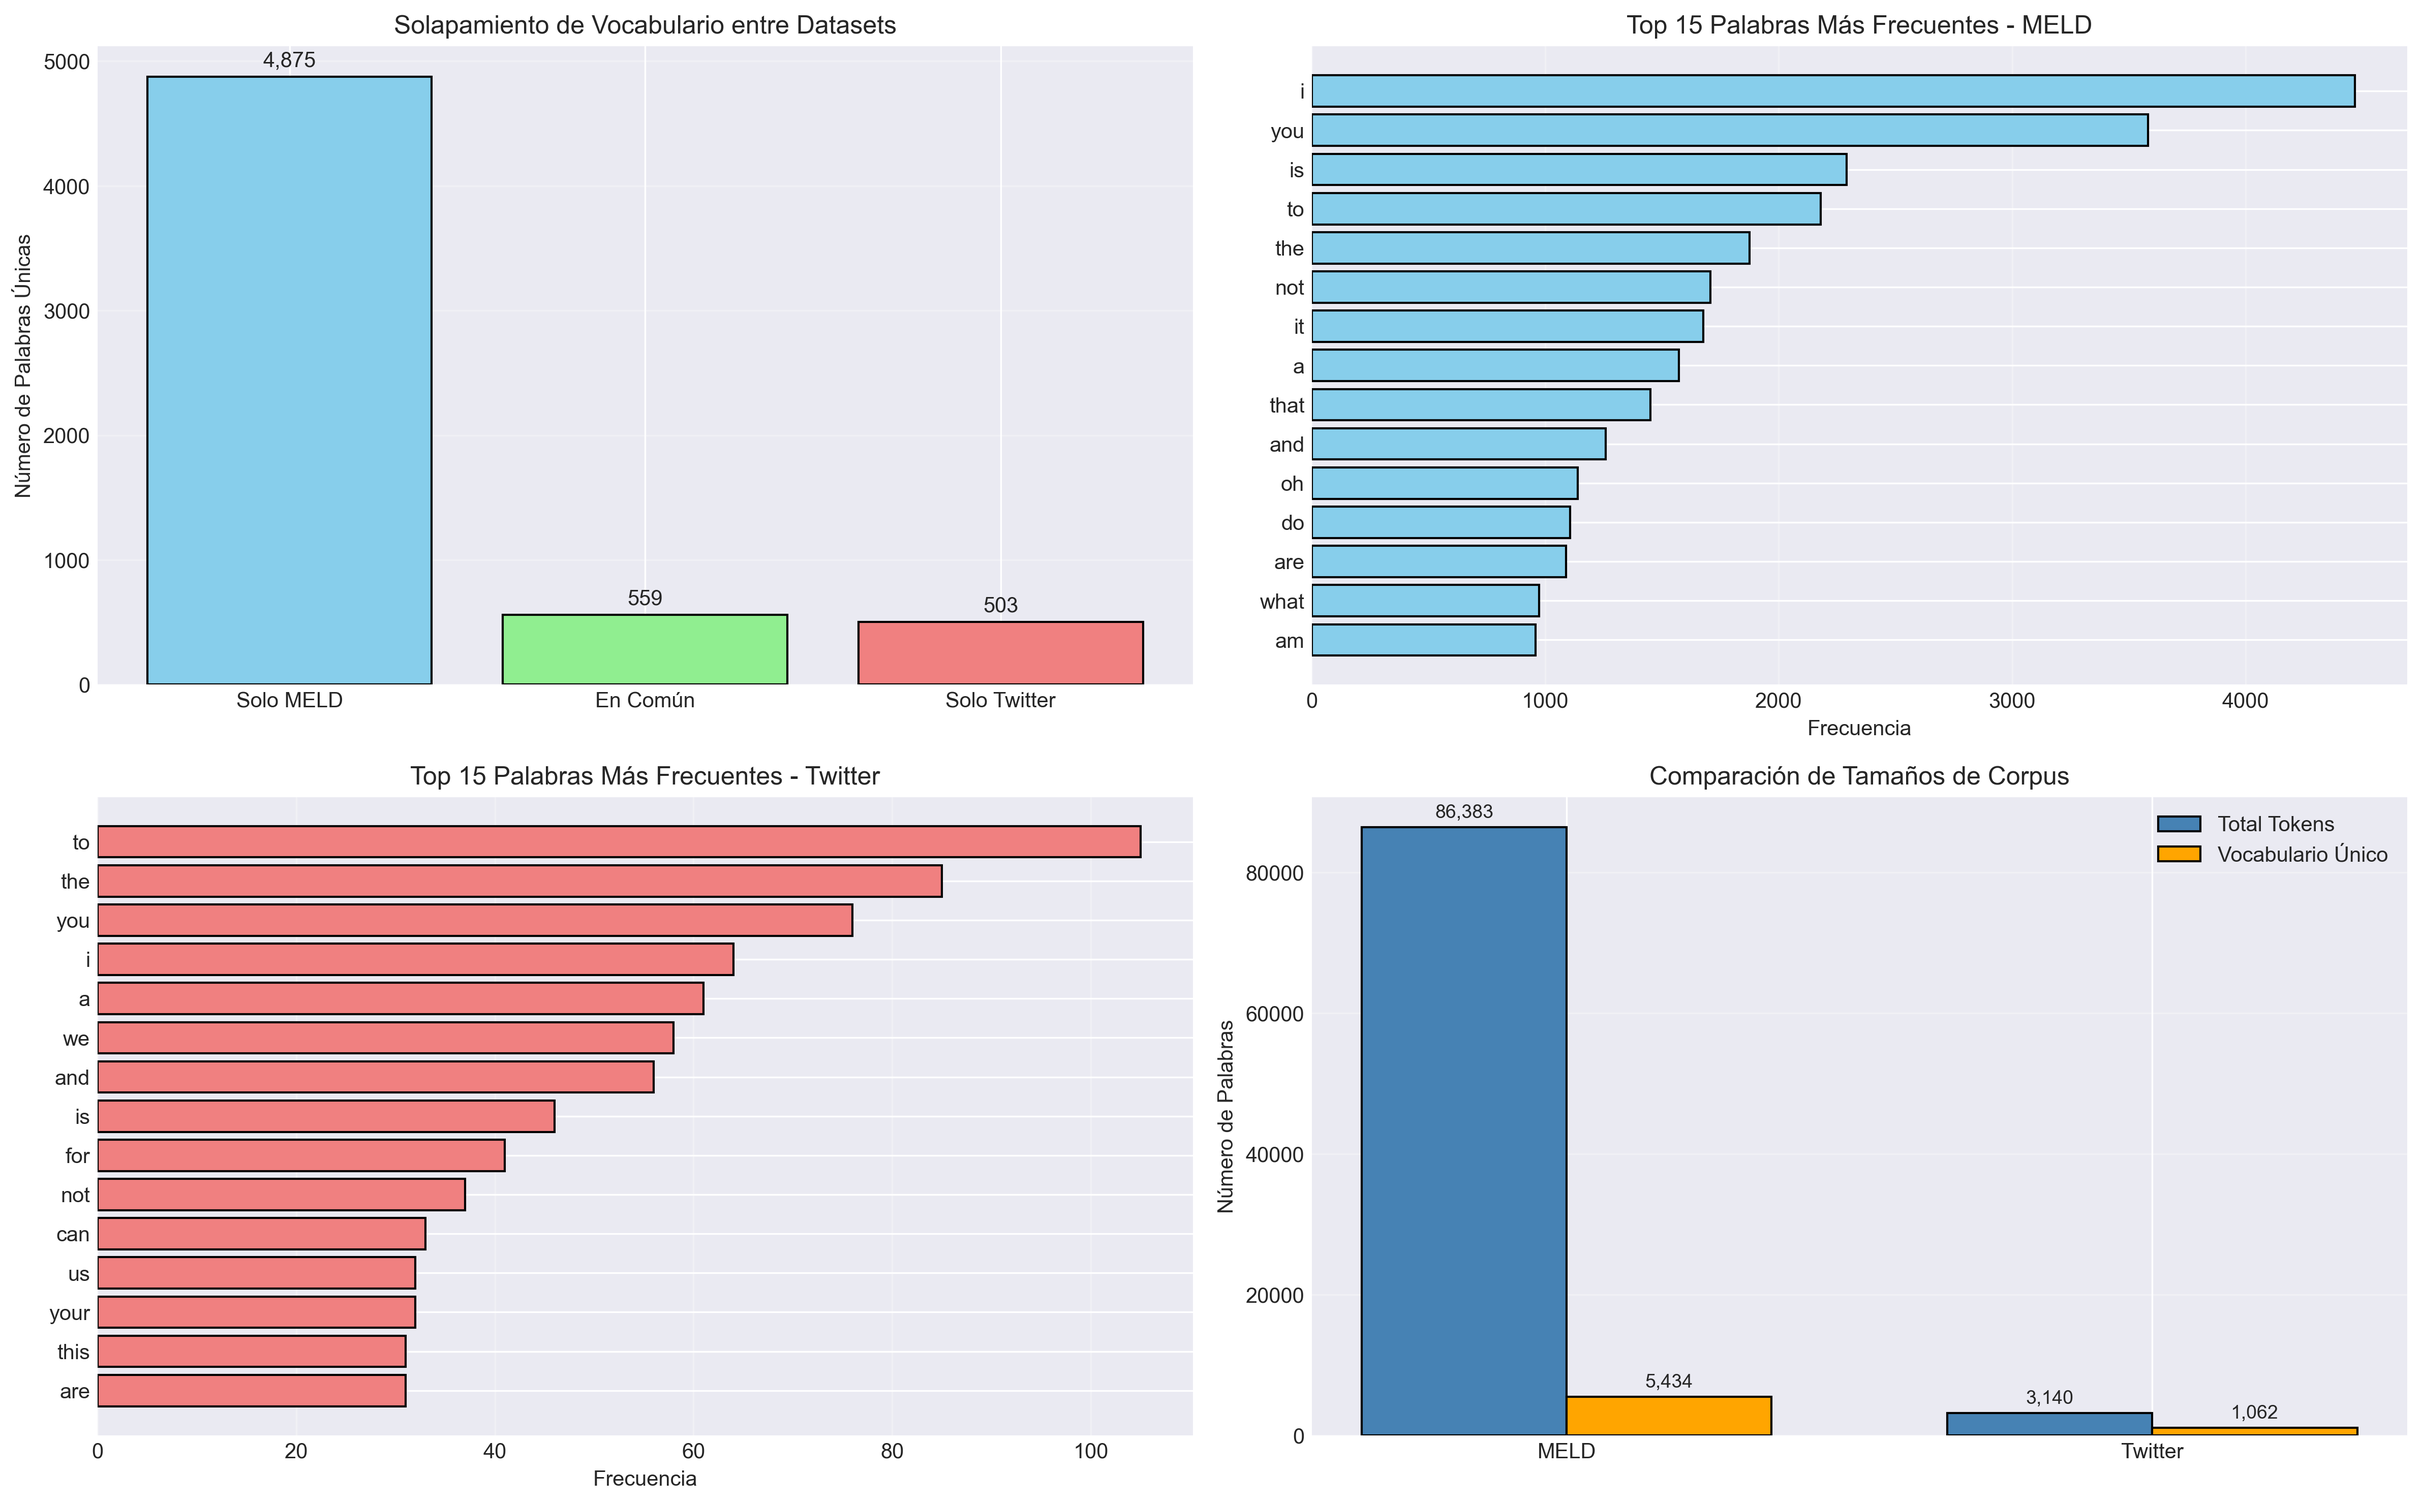
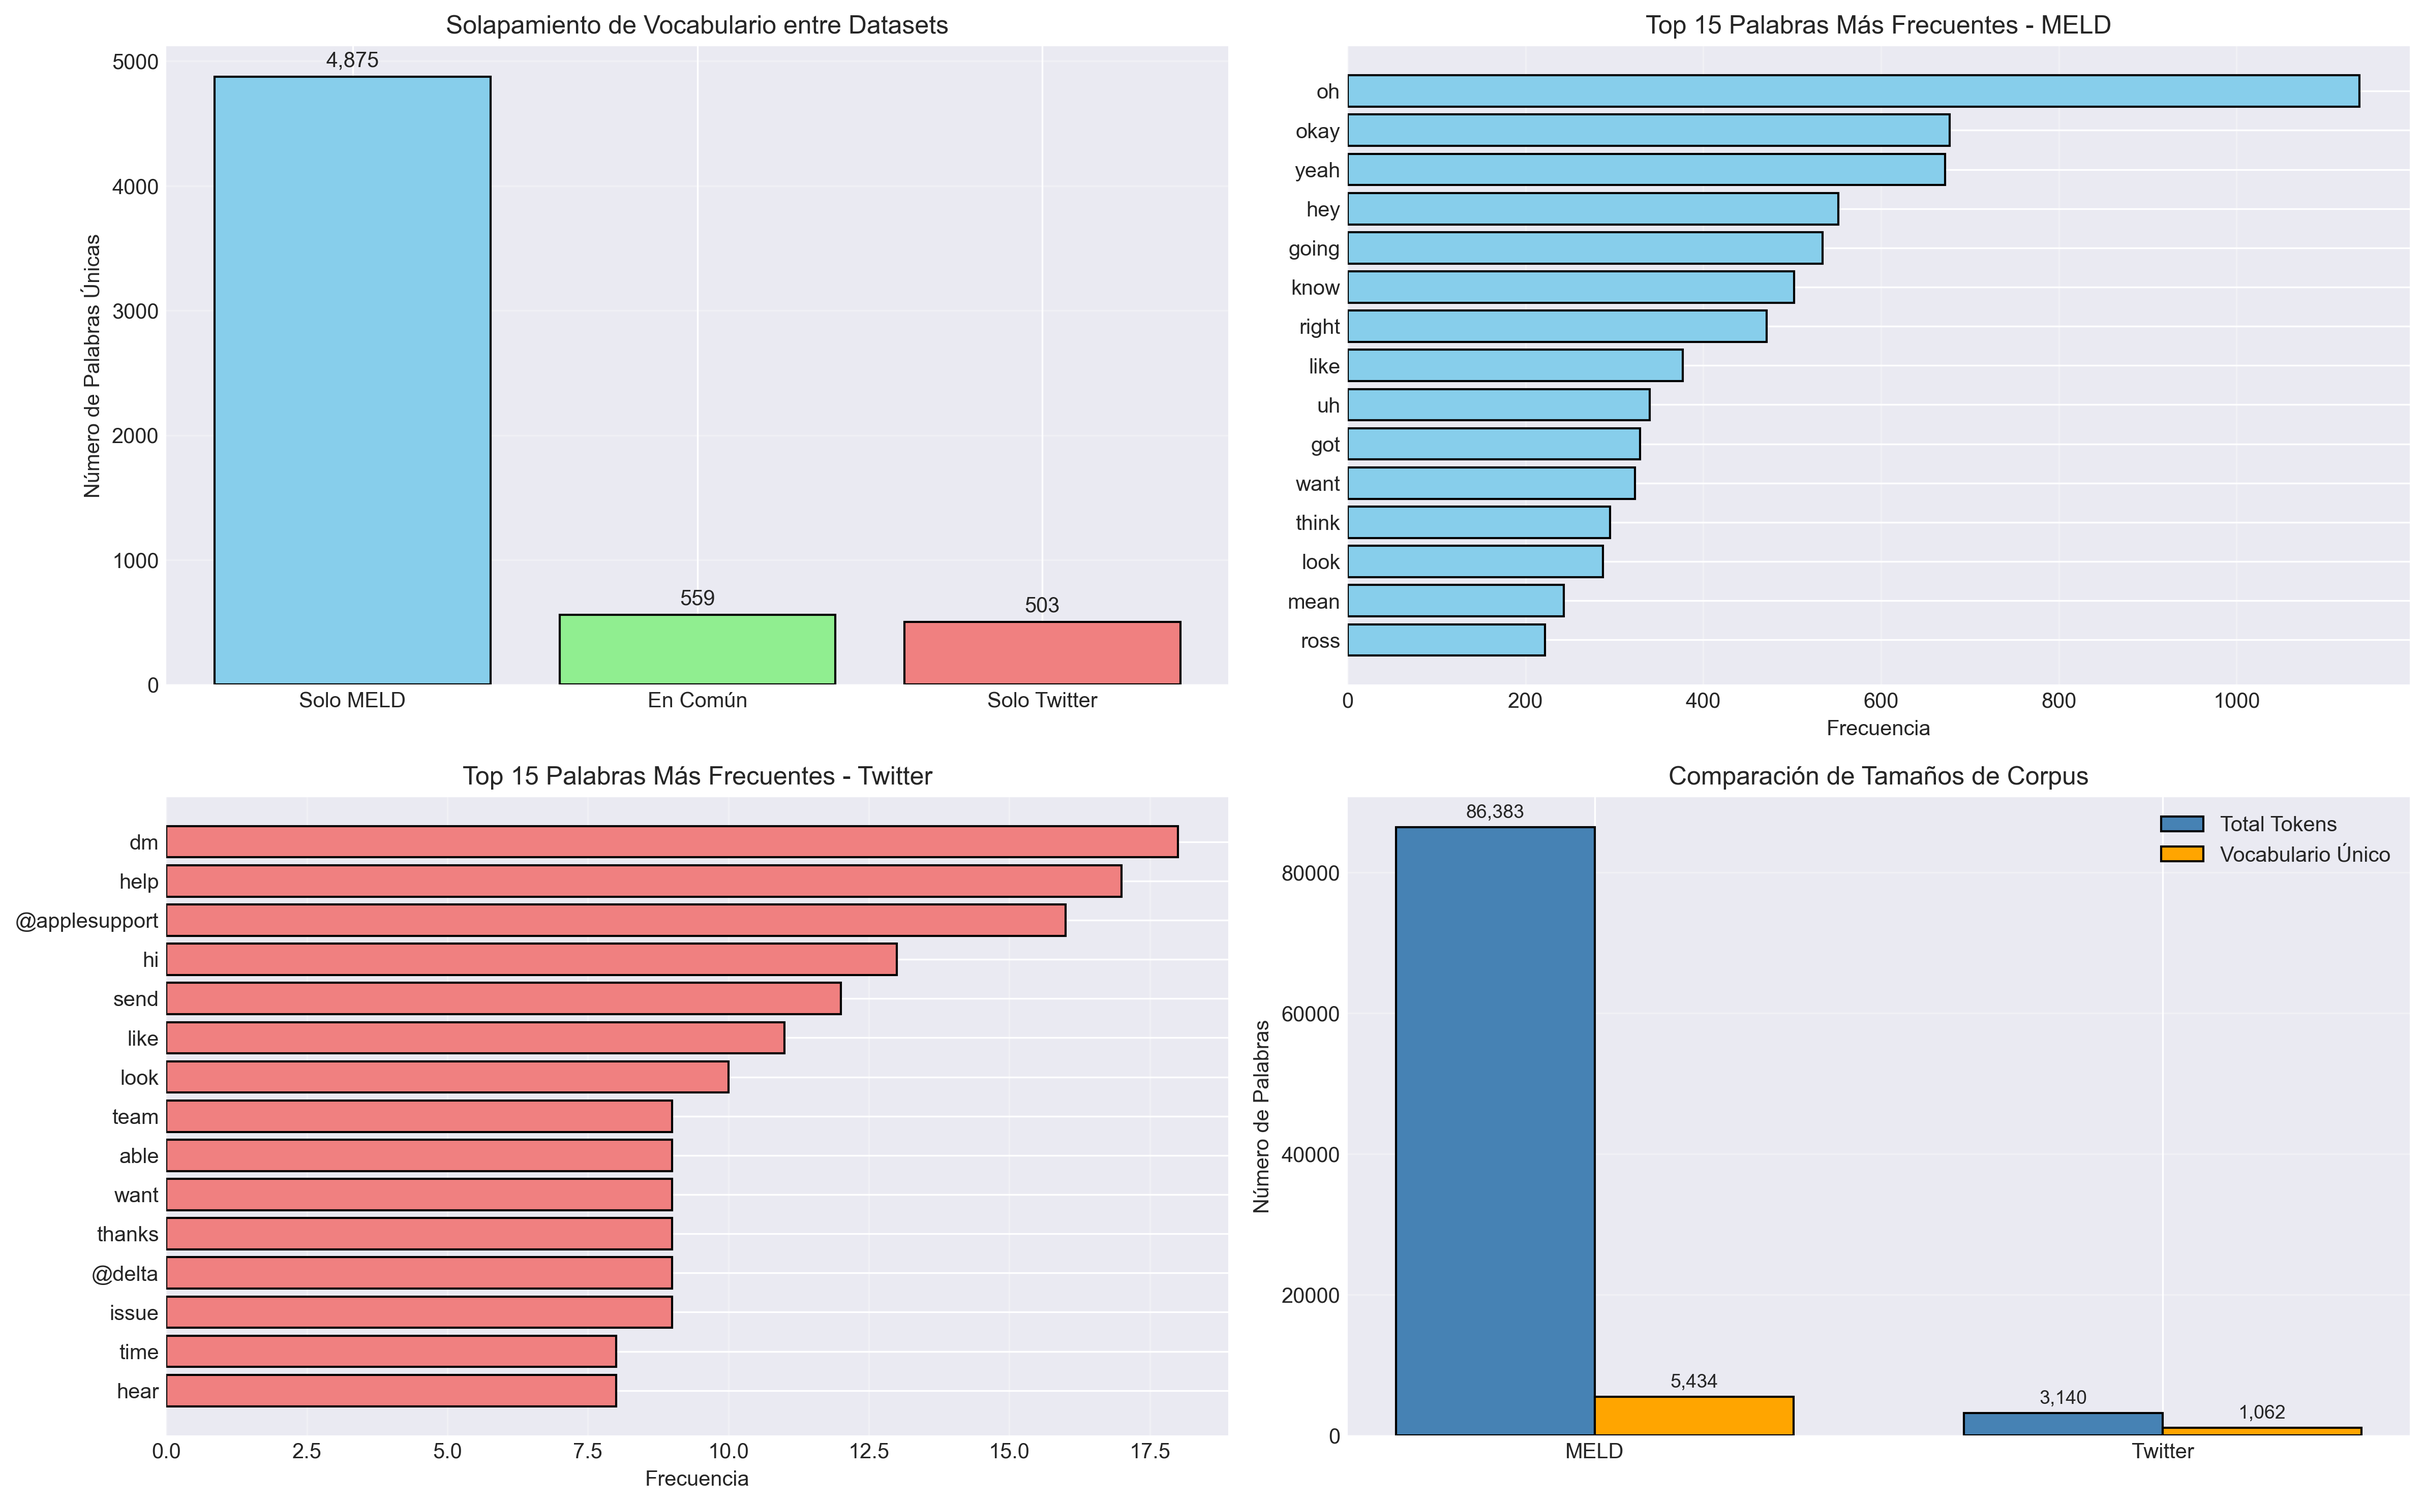
Removed stop words from top 15 words in exploratory_analysis.py

diff --git a/02_data_analysis/exploratory_analysis.py b/02_data_analysis/exploratory_analysis.py
@@ -16,6 +16,7 @@ import matplotlib.pyplot as plt
 import seaborn as sns
 from collections import Counter
 import spacy
+from spacy.lang.en.stop_words import STOP_WORDS
 import contractions
 
 # Configuración de visualización
@@ -74,13 +75,13 @@ def cargar_datasets():
                                      "response_tweet_id", "in_response_to_tweet_id"])
     
     # Mapeo de emociones Twitter
-    twitter["label_emotion"] = twitter.emotion.map({
+    twitter["label_emotion"] = twitter.Emotion.map({
         "neutral": 0, "joy": 1, "sadness": 2, "anger": 3,
         "surprise": 4, "fear": 5, "disgust": 6
     })
     
     # Mapeo de sentimientos Twitter
-    twitter["label_sentiment"] = twitter.sentiment.map({
+    twitter["label_sentiment"] = twitter.Sentiment.map({
         "neutral": 0, "positive": 1, "negative": 2
     })
     
@@ -364,11 +365,15 @@ def analisis_lexico_vocabulario(meld, twitter):
         print("  ✓ Buena cobertura de vocabulario (>75%)")
         print("  - Los modelos deberían generalizar adecuadamente")
     
-    # Palabras más frecuentes
-    print("\n--- 30 PALABRAS MÁS FRECUENTES ---")
+    # Palabras más frecuentes (excluyendo stop words)
+    print("\n--- 30 PALABRAS MÁS FRECUENTES (sin stop words) ---")
     
-    meld_counter = Counter(meld_words)
-    twitter_counter = Counter(twitter_words)
+    # Filtrar stop words
+    meld_words_filtered = [word for word in meld_words if word.lower() not in STOP_WORDS]
+    twitter_words_filtered = [word for word in twitter_words if word.lower() not in STOP_WORDS]
+    
+    meld_counter = Counter(meld_words_filtered)
+    twitter_counter = Counter(twitter_words_filtered)
     
     meld_top30 = meld_counter.most_common(30)
     twitter_top30 = twitter_counter.most_common(30)
@@ -396,7 +401,7 @@ def analisis_lexico_vocabulario(meld, twitter):
     for i, v in enumerate(values):
         axes[0, 0].text(i, v + max(values)*0.01, f'{v:,}', ha='center', va='bottom')
     
-    # Top 15 palabras MELD
+    # Top 15 palabras MELD (sin stop words)
     top15_meld = meld_counter.most_common(15)
     words_meld = [w[0] for w in top15_meld]
     counts_meld = [w[1] for w in top15_meld]
@@ -409,7 +414,7 @@ def analisis_lexico_vocabulario(meld, twitter):
     axes[0, 1].invert_yaxis()
     axes[0, 1].grid(axis='x', alpha=0.3)
     
-    # Top 15 palabras Twitter
+    # Top 15 palabras Twitter (sin stop words)
     top15_twitter = twitter_counter.most_common(15)
     words_twitter = [w[0] for w in top15_twitter]
     counts_twitter = [w[1] for w in top15_twitter]
